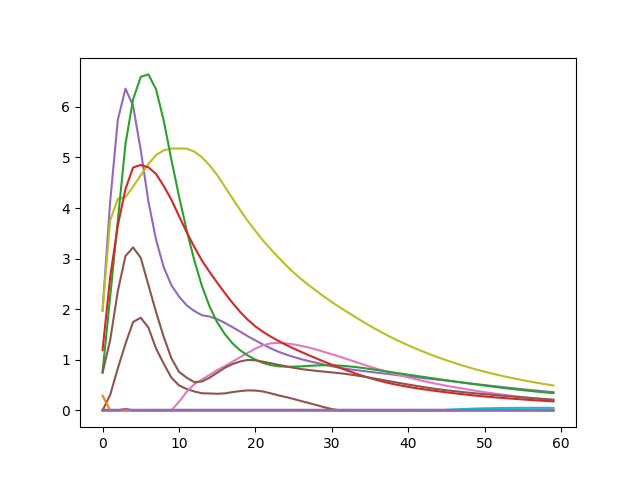
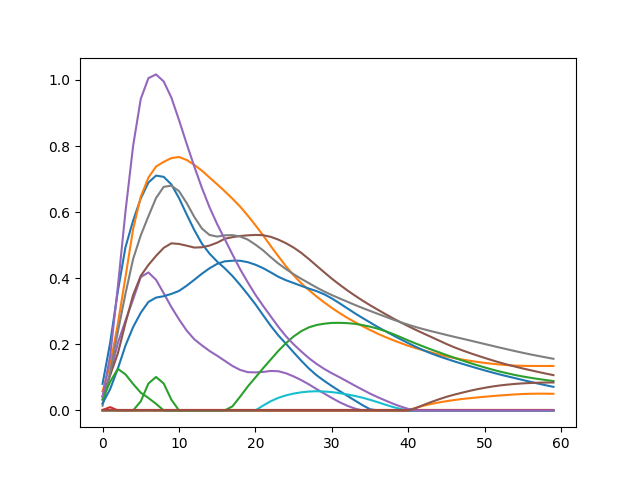
fixed cuda device

diff --git a/py/ordinet.py b/py/ordinet.py
@@ -8,7 +8,7 @@ ACT_FUNCS = {
     "relu": torch.nn.ReLU(inplace=True)
 }
 
-INTEGRATOR_LIMIT = -0.05
+INTEGRATOR_LIMIT = -0.02
 DEFAULT_MAX_TAU = 6
 
 class Ordinet:
@@ -47,7 +47,6 @@ class Ordinet:
         # whether the last activation should have an activation function
         self.last_activates = last_activates # TODO: Put this in backward pass
 
-
     def _init_layer(self, gains, gammas, index):
         # mutate gain and gamma values
 
@@ -60,7 +59,7 @@ class Ordinet:
 
         # He initialization on integral and gain
         integrals = torch.normal(0.0, math.sqrt(2/n_inputs), matrix_size, dtype=self.dtype, device=self.device)
-        gains[index] = torch.normal(0.0, math.sqrt(2/n_inputs), matrix_size, dtype=self.dtype, device=self.device)
+        gains[index] = torch.normal(0.0, math.sqrt(1/n_inputs), matrix_size, dtype=self.dtype, device=self.device) # 1 seems to work better for 60fps
 
         # select pole to give the integral
         poles = torch.div(gains[index], integrals)

diff --git a/py/main.py b/py/main.py
@@ -1,5 +1,4 @@
 
-from tracemalloc import start
 import ordinet
 
 import torch
@@ -8,17 +7,20 @@ import matplotlib.pyplot as plt
 import time
 
 NUM_STEPS = 60
-LAYER_SIZE = 512
+LAYER_SIZE = 1024
 NUM_RECORD = 16
 NUM_HIDDEN = 8
 
 def main(args):
-    net = ordinet.Ordinet(LAYER_SIZE, NUM_HIDDEN)
+    device = torch.device("cpu")
+    if args.cuda:
+        device = torch.device('cuda:0')
+    net = ordinet.Ordinet(LAYER_SIZE, NUM_HIDDEN, device=device)
 
     outputs = []
 
-    x_on = torch.full([net.layer_size], 1.0)
-    x_off = torch.zeros([net.layer_size])
+    x_on = torch.full([net.layer_size], 1.0, device=device)
+    x_off = torch.zeros([net.layer_size], device=device)
 
     start_time = time.time_ns()
     for i in range(NUM_STEPS):
